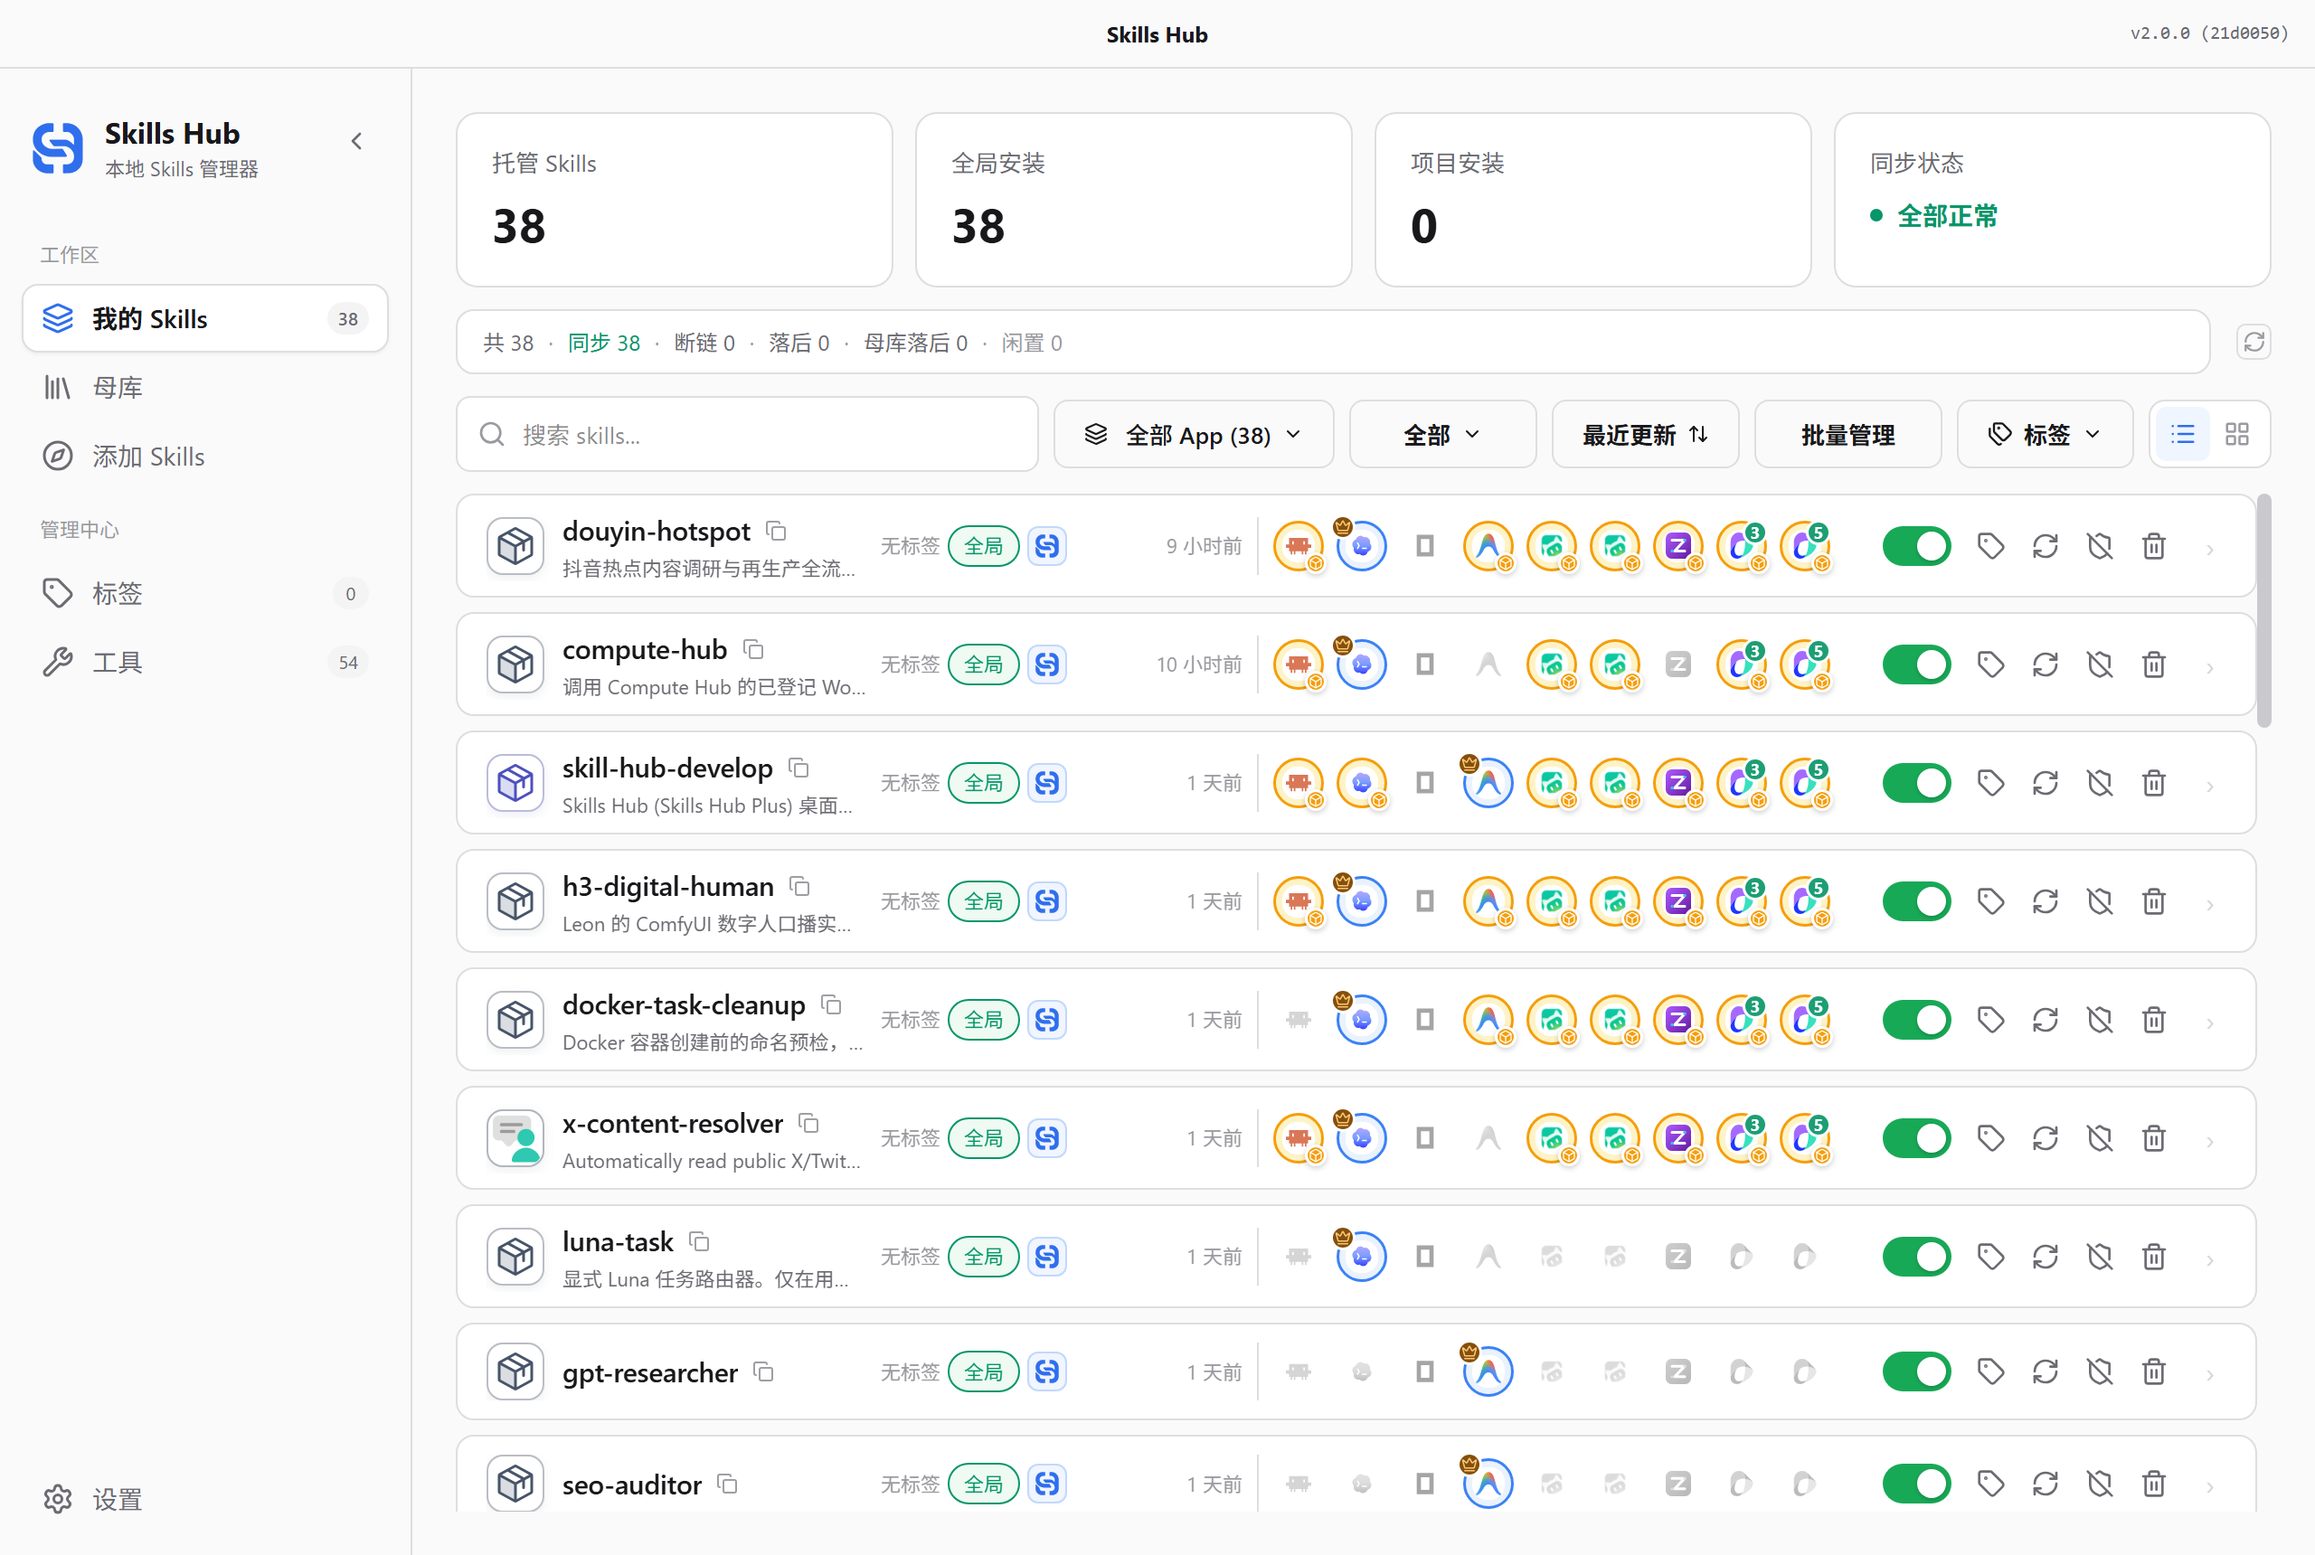
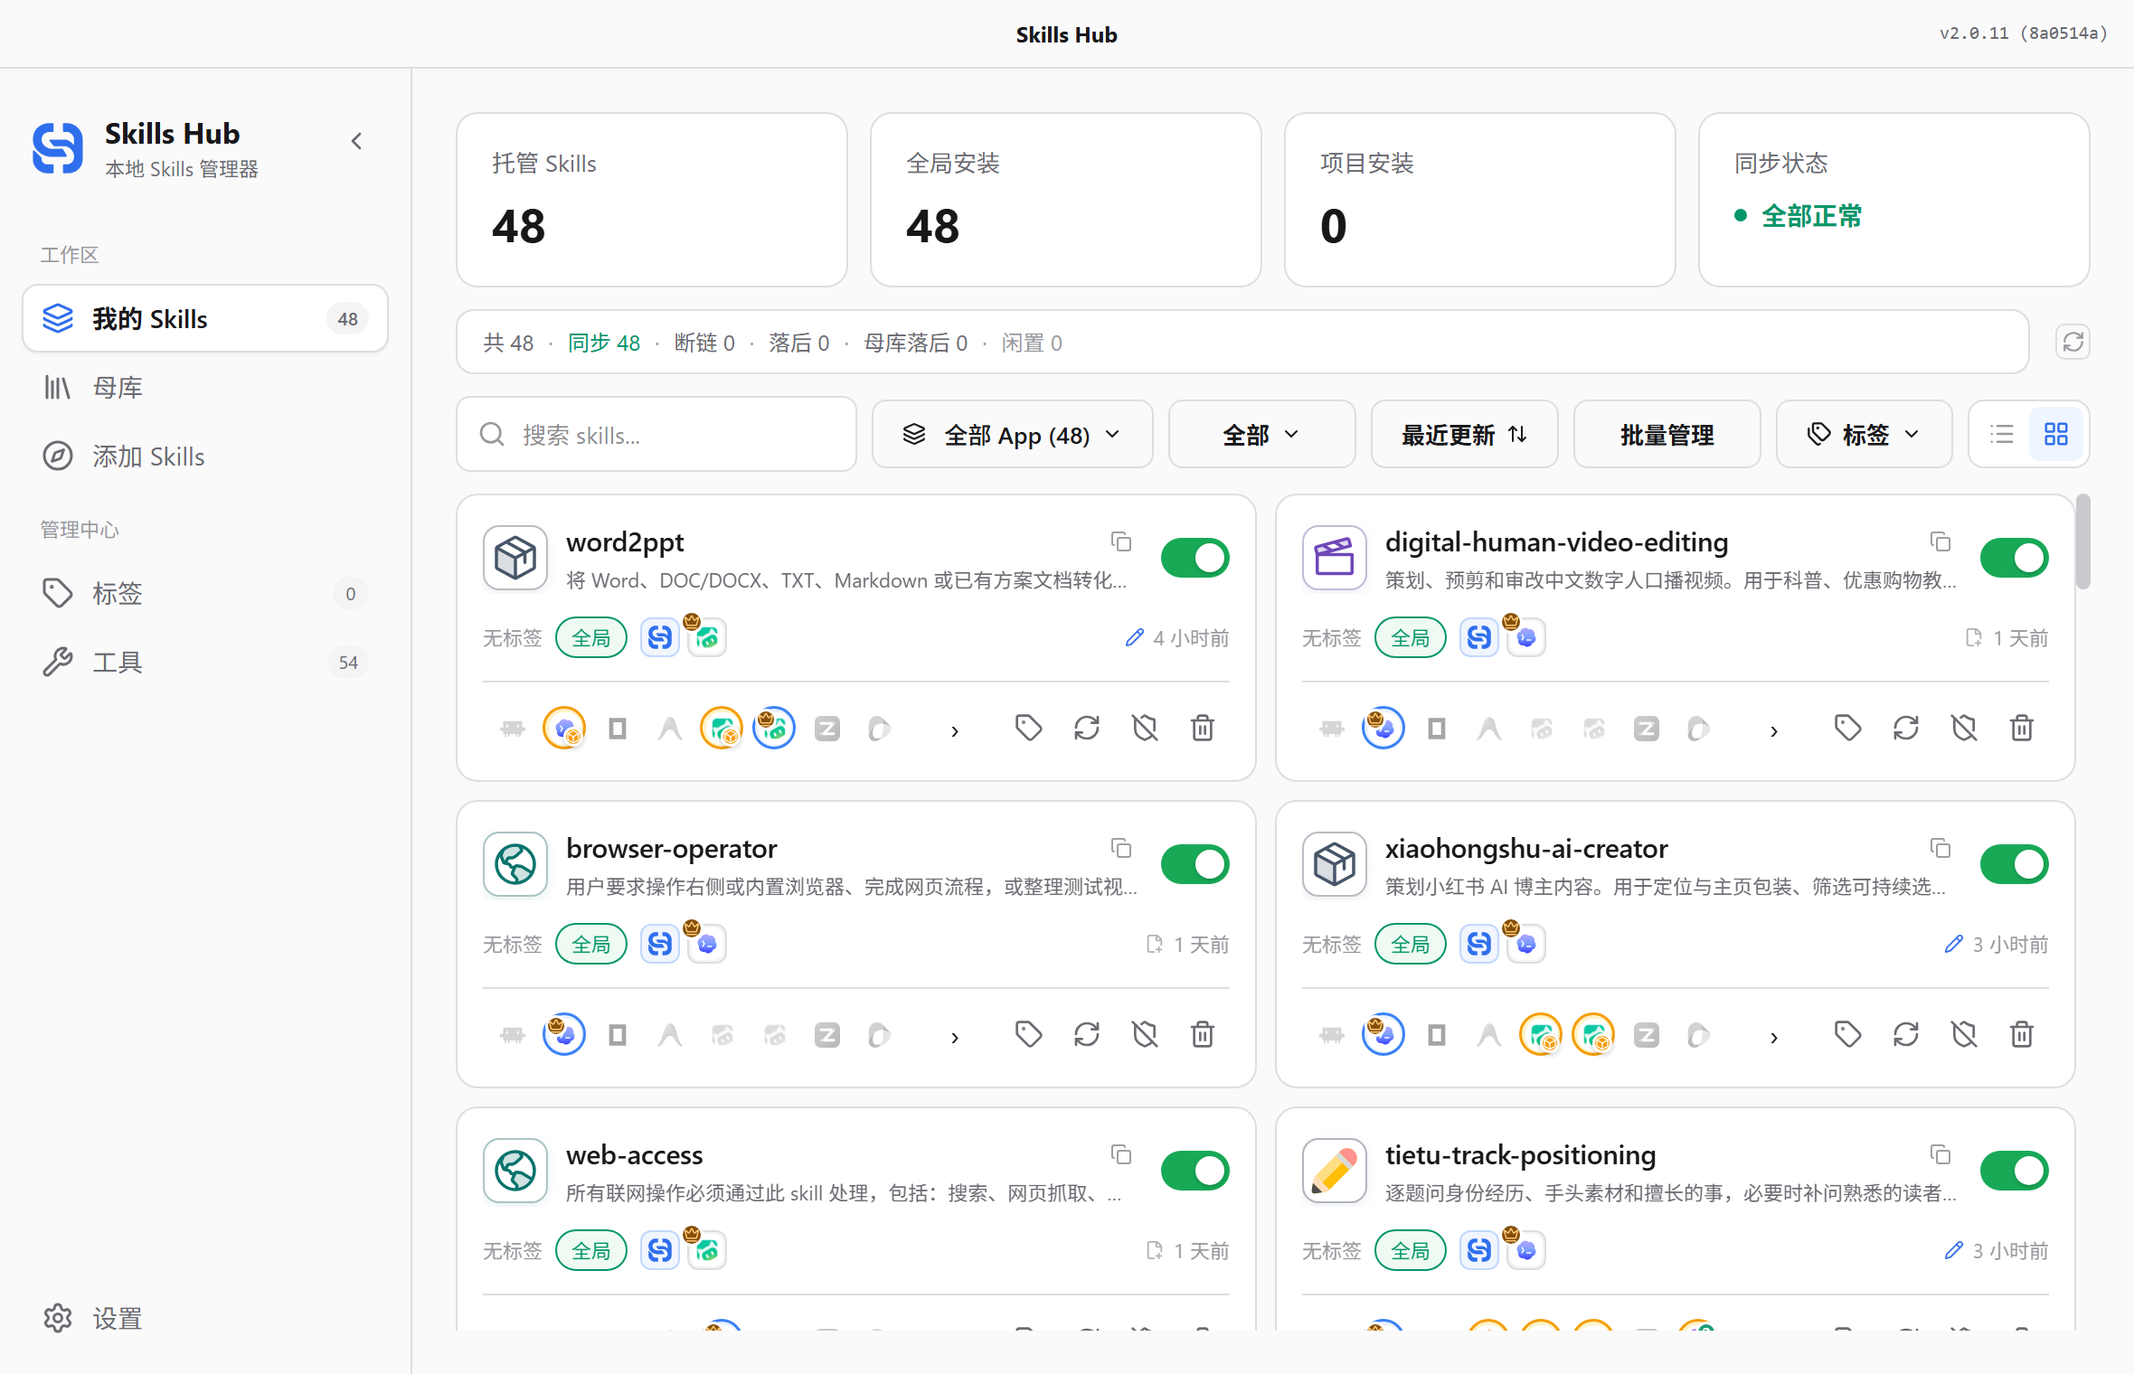
docs: 更新界面截图（2.0.11 实测）并说明时间戳图标语义
两张截图重抓于 v2.0.11 真实运行状态（2x 渲染，2360x1520）：
- 卡片视图：小红书显示「3 小时前 / 铅笔」，修复前是「1 天前 / 文件」
- 列表视图：同一批数据，列线保持对齐

补充 README 说明：时间取自基线历史而非 updated_at，以及两个图标的含义。

diff --git a/README.md b/README.md
@@ -77,6 +77,13 @@ an older version is not spread.
 |:---:|:---:|:---:|
 | ![Bulk actions](docs/assets/my-skills-list-bulk-actions.png) | ![Explore online skills](docs/assets/explore-online-skills.png) | ![Scheduled updates](docs/assets/updates-scheduled-run.png) |
 
+> The timestamp at the bottom-right of each skill card carries a small icon:
+> 📄 file-plus means **never touched since install**, ✏ pencil means **the content has been edited**.
+> "3 hours ago" reads very differently in the two cases — freshly installed vs. edited and already
+> propagated to every tool. The time comes from the newest fingerprint change in
+> `skill_baseline_history`, not `skills.updated_at` (which is only written on install,
+> enable/disable and set-as-master, never on content edits).
+
 ## What's different from upstream
 
 Improvements this fork ships on top of the upstream `v0.9.1` baseline:

diff --git a/docs/README.zh.md b/docs/README.zh.md
@@ -73,6 +73,11 @@ graph LR
 |:---:|:---:|:---:|
 | ![批量操作](assets/my-skills-list-bulk-actions.png) | ![探索在线技能](assets/explore-online-skills.png) | ![定时更新](assets/updates-scheduled-run.png) |
 
+> 技能卡片右下角的时间带一个小图标:📄 文件加号表示**装进来后没动过**,✏ 铅笔表示**内容被编辑过**。
+> 同样是「3 小时前」,前者是刚装好、后者是被改过并已扩散到各工具,语义完全不同。
+> 时间取自 `skill_baseline_history` 里最新一次指纹变更,而不是 `skills.updated_at`
+> (那个字段只在安装、启用/停用、设母版时写入,内容编辑时不会变)。
+
 ## 与上游的差异
 
 本分支在上游 `v0.9.1` 基础上做出的改进:
